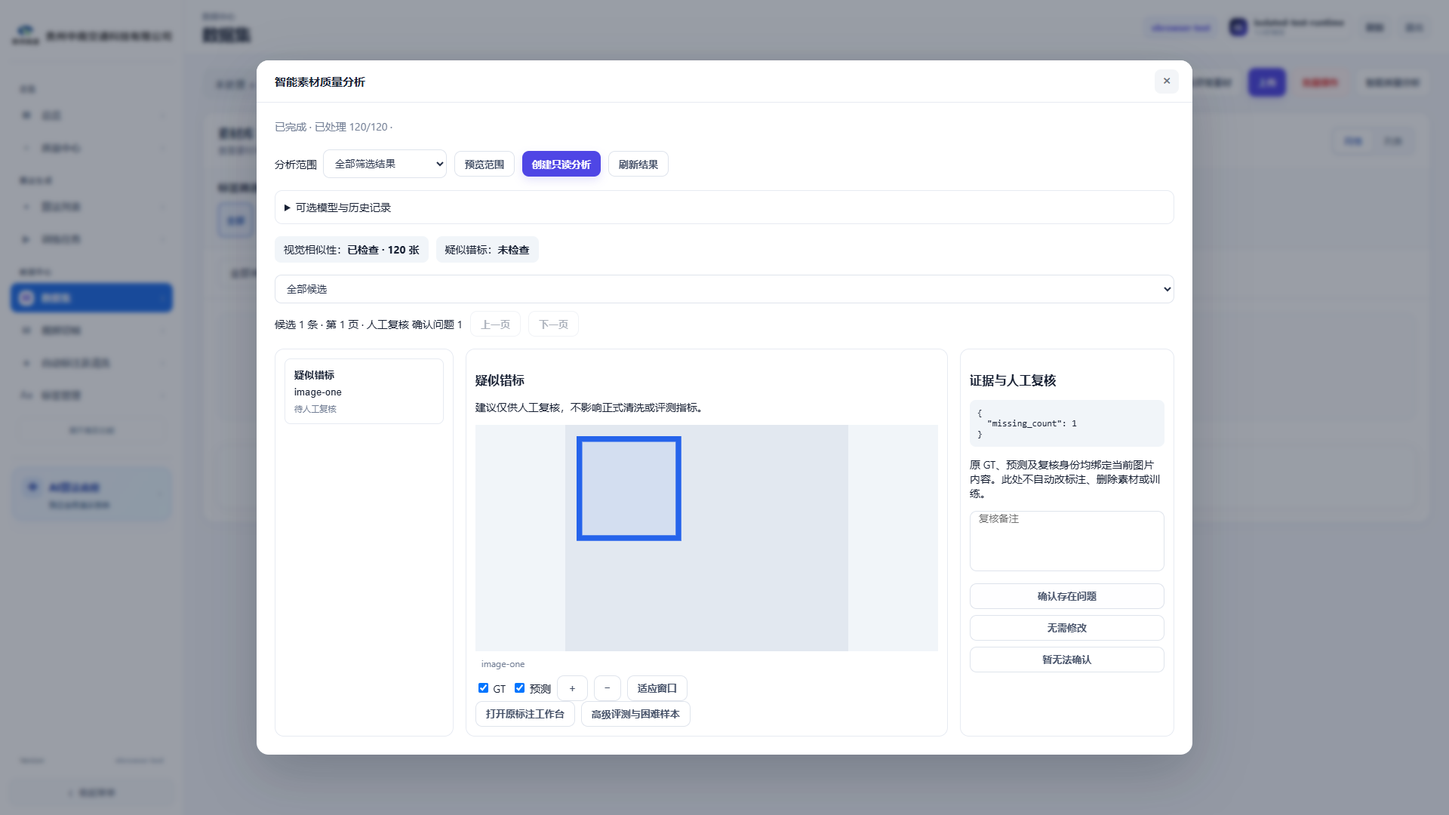
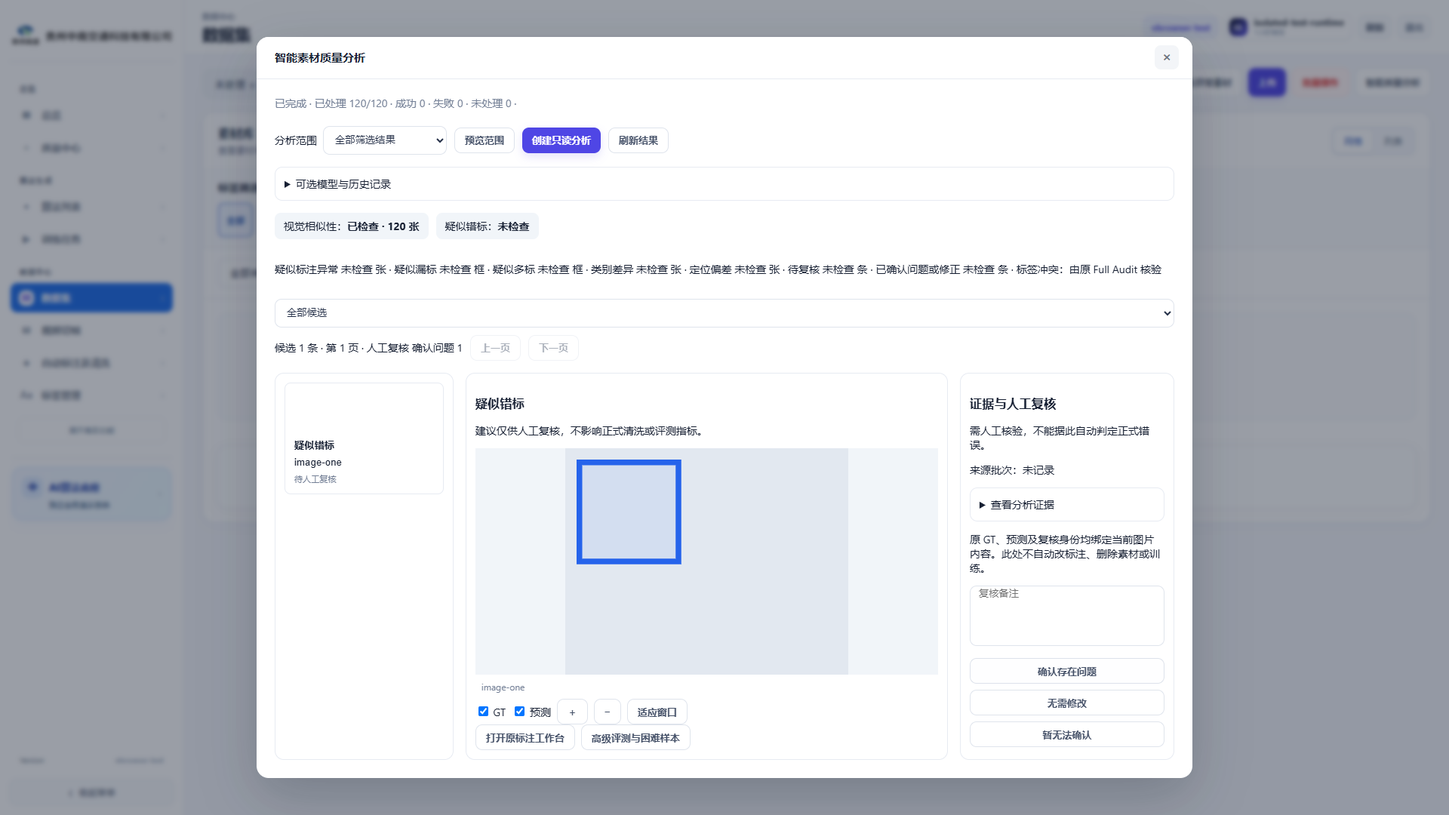
feat: expose native localization evidence and truthful label audit summaries

diff --git a/static/modules/smart-material-audit.js b/static/modules/smart-material-audit.js
@@ -18,6 +18,10 @@ export function auditCheckText(check={}) {
   if(check.status==='completed') return `已检查${check.checked==null?'':` · ${Number(check.checked)} 张`}`;
   return ({not_checked:'未检查',unknown:'未知',risk:'有风险',partial:'部分检查',failed:'失败'})[check.status]||'未检查';
 }
+export function annotationSummaryText(summary={}) {
+  const value=key=>summary[key]==null?'未检查':String(summary[key]);
+  return `疑似标注异常 ${value('suspected_images')} 张 · 疑似漏标 ${value('possible_missing_boxes')} 框 · 疑似多标 ${value('possible_spurious_boxes')} 框 · 类别差异 ${value('class_difference_images')} 张 · 定位偏差 ${value('location_difference_images')} 张 · 待复核 ${value('pending_candidates')} 条 · 已确认问题或修正 ${value('confirmed_candidates')} 条 · 标签冲突：由原 Full Audit 核验`;
+}
 
 // Presentation only: submission, durable identity and polling remain MaterialBatchRuntime62's.
 export function installSmartMaterialAudit({getState,api,modal,notify}={}) {
@@ -42,14 +46,15 @@ export function installSmartMaterialAudit({getState,api,modal,notify}={}) {
     v.task=task;
     const progress=task.smart_audit_progress||{};
     const phase=({smart_inputs:'只读核验输入',smart_features:'提取图像特征',smart_similarity:'计算视觉相似性',smart_mistakenness:'核验错标证据',smart_engine:'隔离引擎处理中'})[progress.stage||task.phase]||task.phase||'';
-    message(v,`${materialBatchTaskText(task)} · 已处理 ${Number(task.processed||0)}/${Number(task.total||0)} · ${phase}${progress.scanned==null?'':` · 特征已读取 ${progress.scanned}/${progress.total}（不是整项任务完成度）`}`);
+    const elapsed=task.smart_audit_summary?.elapsed_seconds;
+    message(v,`${materialBatchTaskText(task)} · 已处理 ${Number(task.processed||0)}/${Number(task.total||0)} · 成功 ${Number(task.succeeded||0)} · 失败 ${Number(task.failed||0)} · 未处理 ${Math.max(0,Number(task.total||0)-Number(task.processed||0))}${elapsed==null?'':` · 处理耗时 ${elapsed} 秒`} · ${phase}${progress.scanned==null?'':` · 特征已读取 ${progress.scanned}/${progress.total}（不是整项任务完成度）`}`);
     v.root.querySelector('[data-cancel]').hidden=!isMaterialBatchActive(task);
     v.root.querySelector('[data-retry]').hidden=!['FAILED','CANCELLED','PARTIAL_SUCCESS','BLOCKED_BY_ENVIRONMENT','BLOCKED_BY_HARDWARE'].includes(task.status);
     v.root.querySelector('[data-checks]').innerHTML=Object.entries(task.smart_audit_summary?.checks||{}).map(([key,check])=>`<span title="${escape(check.reason||'')}">${escape(checks[key]||key)}：<b>${escape(auditCheckText(check))}</b></span>`).join('');
     if(oldAttempt!==task.attempt) {resetResults(v);}
     if(!isMaterialBatchActive(task)&&(wasActive||oldAttempt!==task.attempt)&&task.result_ready) void findings(v);
   }
-  function resetResults(v) {v.offset=0;v.detailSequence++;v.listSequence++;v.item=null;for(const editor of v.editors||[])editor.destroy();v.editors=[];for(const name of ['issues','detail','review'])v.root.querySelector(`[data-${name}]`).replaceChildren();}
+  function resetResults(v) {v.offset=0;v.detailSequence++;v.listSequence++;v.item=null;for(const editor of v.editors||[])editor.destroy();v.editors=[];for(const name of ['issues','detail','review'])v.root.querySelector(`[data-${name}]`).replaceChildren();v.root.querySelector('[data-annotation-summary]')?.remove();if(v.source==='labels'){const box=document.querySelector('[data-smart-audit-label-summary]');if(box)box.textContent='当前分析结果尚未读取，不使用旧任务计数。';}}
   async function chooseTask(v,id) {
     resetResults(v);v.task=null;v.desiredTaskId=id;
     const task=await request(v,`/api/v62/projects/${encodeURIComponent(v.project)}/material-batches/${encodeURIComponent(id)}`);
@@ -73,9 +78,15 @@ export function installSmartMaterialAudit({getState,api,modal,notify}={}) {
       const page=await request(v,`${base(v.project)}/${encodeURIComponent(id)}/findings?limit=25&offset=${v.offset}&issue_type=${encodeURIComponent(v.filter)}`);
       if(!active(v)||v.task.task_id!==id||v.task.attempt!==attempt||page.generation!==attempt||token!==v.listSequence)return;
       v.total=page.total;
+      let summary=v.root.querySelector('[data-annotation-summary]');
+      if(!summary){summary=document.createElement('p');summary.dataset.annotationSummary='';v.root.querySelector('[data-checks]').after(summary);}
+      summary.textContent=annotationSummaryText(page.annotation_summary);
+      const labelSummary=document.querySelector('[data-smart-audit-label-summary]');
+      if(labelSummary&&v.source==='labels')labelSummary.textContent=`Task ${id} · ${annotationSummaryText(page.annotation_summary)}`;
       v.root.querySelector('[data-count]').textContent=`候选 ${page.total} 条 · 第 ${Math.floor(v.offset/25)+1} 页 · 人工复核 ${Object.entries(page.review_counts||{}).map(([k,n])=>`${({confirmed_issue:'确认问题',no_issue:'无需修改',corrected:'已修正',unknown:'待确认',stale:'已失效'})[k]||k} ${n}`).join(' / ')}`;
       v.root.querySelector('[data-issues]').innerHTML=page.items.map(item=>`<button class="sma-issue" data-issue="${escape(item.issue_id)}"><b>${escape(types[item.issue_type]||item.issue_type)}</b><span>${escape(item.image_id)}${item.related_image_id?` ↔ ${escape(item.related_image_id)}`:''}</span><small>${item.stale?'证据已变化，需复核':item.review_valid?'已人工复核':'待人工复核'}</small></button>`).join('')||'<p>当前筛选没有候选。未检查项仍保持未检查，不代表全库无问题。</p>';
       v.root.querySelectorAll('[data-issue]').forEach(b=>b.onclick=()=>void action(v,()=>detail(v,b.dataset.issue)));
+      v.root.querySelectorAll('[data-issue]').forEach(button=>{const item=page.items.find(row=>row.issue_id===button.dataset.issue),img=document.createElement('img');img.src=`/api/v61/projects/${encodeURIComponent(v.project)}/materials/${encodeURIComponent(item.image_id)}/content/thumbnail?edge=128`;img.alt=item.inputs?.[item.image_id]?.filename||item.image_id;img.loading='lazy';img.width=80;img.height=54;img.style.objectFit='contain';img.onerror=()=>{img.remove();const hint=document.createElement('small');hint.textContent='缩略图暂不可用，可查看原图';button.append(hint);};button.prepend(img);});
       v.root.querySelector('[data-prev]').disabled=v.offset===0;v.root.querySelector('[data-next]').disabled=v.offset+25>=page.total;
       if(page.items.length)await detail(v,page.items[0].issue_id);
     }catch(e){if(active(v)&&token===v.listSequence)message(v,e.message||e,true);}
@@ -111,6 +122,10 @@ export function installSmartMaterialAudit({getState,api,modal,notify}={}) {
       if(img.complete&&img.naturalWidth)void start();else img.onload=()=>void start();
     }
     v.root.querySelector('[data-review]').innerHTML=`<h3>证据与人工复核</h3><pre>${escape(JSON.stringify(item.evidence,null,2))}</pre><p>原 GT、预测及复核身份均绑定当前图片内容。此处不自动改标注、删除素材或训练。</p><textarea class="input" data-note maxlength="1000" placeholder="复核备注"></textarea><div class="sma-verdicts"><button class="btn" data-verdict="confirmed_issue">确认存在问题</button><button class="btn" data-verdict="no_issue">无需修改</button><button class="btn" data-verdict="unknown">暂无法确认</button></div>`;
+    const raw=v.root.querySelector('[data-review] pre'),evidence=item.evidence||{},reason=document.createElement('p');
+    reason.textContent=[evidence.possible_missing>0?`疑似漏标 ${evidence.possible_missing} 框`:'',evidence.possible_spurious>0?`疑似多标 ${evidence.possible_spurious} 框`:'',evidence.mistakenness>.5?'疑似类别差异':'',evidence.mistakenness_loc>.5?'疑似框位置偏差':'',Number.isFinite(evidence.distance)?`单位特征距离 ${evidence.distance.toFixed(4)}（越小越近，不是百分比）`:'',evidence.reason||''].filter(Boolean).join('；')||'需人工核验，不能据此自动判定正式错误。';raw.before(reason);
+    const source=document.createElement('p');source.textContent=`来源批次：${item.inputs?.[item.image_id]?.source_batch_id||'未记录'}`;raw.before(source);
+    const disclosure=document.createElement('details'),title=document.createElement('summary');title.textContent='查看分析证据';raw.replaceWith(disclosure);disclosure.append(title,raw);
     v.root.querySelectorAll('[data-verdict]').forEach(b=>b.onclick=()=>void action(v,async()=>{
       if(v.task.task_id!==taskId||v.task.attempt!==attempt||v.item!==item)throw new Error('分析结果已切换，请重新核验');
       await request(v,`${base(v.project)}/${encodeURIComponent(taskId)}/findings/${encodeURIComponent(id)}/review`,post({verdict:b.dataset.verdict,expected_generation:attempt,expected_review_token:item.review_token,note:v.root.querySelector('[data-note]').value}));
@@ -157,8 +172,8 @@ export function installSmartMaterialAudit({getState,api,modal,notify}={}) {
   }
   const runtime={open,onTask(task){if(view)taskChanged(view,task);},beforeModalClose(layer){if(view&&(layer===view.layer||layer.contains(view.root)))dispose(view);if(reviewIntent&&layer.querySelector('.ann420-stable'))reviewIntent=null;},async onAnnotationSaved(project,imageId,workbench){
     const intent=reviewIntent;if(!intent||intent.project!==project||intent.imageId!==imageId||intent.workbench!==workbench||pid()!==project)return;
-    try {const recorded=await withRequestDeadline(async signal=>{const item=await api(`${base(project)}/${encodeURIComponent(intent.taskId)}/findings/${encodeURIComponent(intent.issueId)}`,{signal});if(reviewIntent!==intent||pid()!==project)return false;if(item.generation!==intent.attempt)throw new Error('分析代际已变化');await api(`${base(project)}/${encodeURIComponent(intent.taskId)}/findings/${encodeURIComponent(intent.issueId)}/review`,{...post({verdict:'corrected',expected_generation:intent.attempt,expected_review_token:item.review_token}),signal});return true;},{timeoutMs:30000,label:'人工复核回执'});if(recorded&&pid()===project)tell('标注已保存，分析复核回执已更新');}
-    catch(_){tell('标注已保存；分析复核回执未更新，可在智能分析中重新核验');}
+    try {const recorded=await withRequestDeadline(async signal=>{const item=await api(`${base(project)}/${encodeURIComponent(intent.taskId)}/findings/${encodeURIComponent(intent.issueId)}`,{signal});if(reviewIntent!==intent||pid()!==project)return false;if(item.generation!==intent.attempt)throw new Error('分析代际已变化');await api(`${base(project)}/${encodeURIComponent(intent.taskId)}/findings/${encodeURIComponent(intent.issueId)}/review`,{...post({verdict:'corrected',expected_generation:intent.attempt,expected_review_token:item.review_token}),signal});return true;},{timeoutMs:30000,label:'人工复核回执'});if(recorded&&pid()===project){tell('标注已保存，分析复核回执已更新');if(view?.task?.task_id===intent.taskId&&view.task.attempt===intent.attempt)void findings(view);}}
+    catch(_){if(pid()===project)tell('标注已保存；分析复核回执未更新，可在智能分析中重新核验');}
   }};
   window.SmartMaterialAuditRuntime=runtime;
   window.openSmartMaterialAudit=options=>open(options).catch(error=>tell(error.message||error));

diff --git a/static/app.js b/static/app.js
@@ -5262,7 +5262,7 @@ const LABEL_SCHEMA_CACHE_TTL_MS=2*60*1000;
 
   window.renderLabelManagement414=async function({force=false}={}){
     const view=document.getElementById('view');if(!view)return;
-    view.innerHTML=`<section class="label414-shell"><div class="label414-head"><div><h2>标签管理</h2><p>标签英文编码用于训练、导入导出和模型结果；别名用于记住外部数据集或 AI 曾确认过的标签名称。</p></div><div class="row"><button class="btn" onclick="renderLabelManagement414({force:true})">刷新</button><button class="btn" onclick="openLabelBulkUnify414()">批量统一标签</button><button class="btn primary" onclick="openLabel414()">＋ 新建标签</button></div></div><div id="label414RemapBanner"></div><section class="panel"><div class="label414-table" id="label414Table"></div></section><section class="panel label-integrity414"><div class="panel-head"><div><div class="panel-title">标签完整性</div><div class="subline">从 AnnotationRepository Ground Truth 全量审计，再与当前治理和 MaterialRepository 投影对账。</div></div><button class="btn" onclick="openSmartMaterialAudit({source: &quot;labels&quot;})">智能质量建议与人工复核</button><button id="labelIntegrityAuditButton414" class="btn" onclick="startLabelIntegrityAudit414()">运行 Full Audit</button></div><div class="panel-body" id="labelIntegrity414Body"><div class="empty compact">尚未运行完整性审计。审计在后台执行，不会修改任何标注。</div></div></section></section>`;
+    view.innerHTML=`<section class="label414-shell"><div class="label414-head"><div><h2>标签管理</h2><p>标签英文编码用于训练、导入导出和模型结果；别名用于记住外部数据集或 AI 曾确认过的标签名称。</p></div><div class="row"><button class="btn" onclick="renderLabelManagement414({force:true})">刷新</button><button class="btn" onclick="openLabelBulkUnify414()">批量统一标签</button><button class="btn primary" onclick="openLabel414()">＋ 新建标签</button></div></div><div id="label414RemapBanner"></div><section class="panel"><div class="label414-table" id="label414Table"></div></section><section class="panel label-integrity414"><div class="panel-head"><div><div class="panel-title">标签完整性</div><div class="subline">从 AnnotationRepository Ground Truth 全量审计，再与当前治理和 MaterialRepository 投影对账。</div></div><button class="btn" onclick="openSmartMaterialAudit({source: &quot;labels&quot;})">智能质量建议与人工复核</button><button id="labelIntegrityAuditButton414" class="btn" onclick="startLabelIntegrityAudit414()">运行 Full Audit</button></div><div class="panel-body" data-smart-audit-label-summary>智能质量建议尚未读取；点击“智能质量建议与人工复核”查看真实结果，未检查项不默认正常。</div><div class="panel-body" id="labelIntegrity414Body"><div class="empty compact">尚未运行完整性审计。审计在后台执行，不会修改任何标注。</div></div></section></section>`;
     drawLabel414();
     void resumeLabelUnify414();
     if(state.labelIntegrityAuditResult414)renderLabelIntegrityIssues414(state.labelIntegrityAuditResult414);else void resumeLabelIntegrity414();

diff --git a/tools/verify_smart_audit_scope_limit.py b/tools/verify_smart_audit_scope_limit.py
@@ -1,0 +1,61 @@
+"""Isolated 10k/100k metadata admission boundary; NOT an engine scale benchmark."""
+import argparse
+from contextlib import closing
+import hashlib
+import json
+from pathlib import Path
+import sys
+import tempfile
+import time
+
+import psutil
+
+sys.path.insert(0,str(Path(__file__).resolve().parents[1]))
+from platform_core.material_repository import MaterialRepository
+from platform_core.material_batches import BatchRequestError
+from platform_core.smart_material_audit.service import estimate_audit
+
+
+def digest(path):
+    with path.open('rb') as stream:return hashlib.file_digest(stream,'sha256').hexdigest()
+
+
+def main():
+    parser=argparse.ArgumentParser();parser.add_argument('--out',required=True);args=parser.parse_args()
+    results=[]
+    with tempfile.TemporaryDirectory(prefix='smart-scope-boundary-owned-') as temporary:
+        root=Path(temporary);project=root/'projects/p';owner=MaterialRepository(project)
+        binary=root/'optional/Scripts/python.exe';binary.parent.mkdir(parents=True);binary.write_bytes(b'not executed')
+        (binary.parent.parent/'pyvenv.cfg').write_text('include-system-site-packages = false\n')
+        (root/'smart_material_audit.json').write_text(json.dumps(dict(enabled=True,python=str(binary),max_images=2000)))
+        inserted=0
+        for count in [10000,100000]:
+            for start in range(inserted,count,1000):
+                owner.upsert_many(dict(id=f'image-{index:06}',filename=f'{index}.jpg',content_sha256='a'*64)
+                    for index in range(start,min(count,start+1000)))
+            inserted=count
+            database=project/'materials.sqlite3';before=digest(database);calls=[]
+            connect=MaterialRepository._connect
+            def traced(self):
+                connection=connect(self);connection.set_trace_callback(calls.append);return connection
+            MaterialRepository._connect=traced
+            rss=psutil.Process().memory_info().rss;started=time.perf_counter()
+            try:
+                try:estimate_audit(root,'p',dict(scope='FILTERED',filters={}))
+                except BatchRequestError as error:assert error.code=='SMART_AUDIT_SCOPE_LIMIT'
+                else:raise AssertionError('unverified large engine scope was admitted')
+            finally:MaterialRepository._connect=connect
+            elapsed=time.perf_counter()-started
+            assert not any('SELECT m.id FROM materials' in sql for sql in calls)
+            assert before==digest(database)
+            with closing(owner._connect()) as connection:assert connection.execute('SELECT COUNT(*) FROM materials').fetchone()[0]==count
+            assert not (root/'tasks.sqlite3').exists() and not (root/'artifacts').exists()
+            results.append(dict(material_metadata_count=count,scope_rejected_before_id_loading=True,
+                original_database_unchanged=True,elapsed_seconds=round(elapsed,5),
+                rss_end_minus_start_bytes=psutil.Process().memory_info().rss-rss,engine_started=False))
+    Path(args.out).write_text(json.dumps(dict(scope='metadata-only admission safety, not actual image/engine throughput',
+        cases=results,owned_temporary_root_cleaned=True),indent=2),encoding='utf-8')
+    print(json.dumps(results),flush=True)
+
+
+if __name__=='__main__':main()

diff --git a/tools/verify_fiftyone_poc.py b/tools/verify_fiftyone_poc.py
@@ -14,6 +14,7 @@ def main():
     import argparse
     parser = argparse.ArgumentParser()
     parser.add_argument("--with-prediction-fixture", action="store_true")
+    parser.add_argument("--with-location-fixture", action="store_true")
     parser.add_argument("--identical-fixture", action="store_true")
     args = parser.parse_args()
     from PIL import Image, ImageDraw
@@ -48,6 +49,14 @@ def main():
                     annotation_state="confirmed_empty", annotation_digest="b"*64,
                     prediction_evidence=dict(evaluation_id="c"*64, model_sha256="d"*64,
                         benchmark_scope_id="e"*64, image_content_sha256=row["content_sha256"],image_width=width,image_height=height))
+        if args.with_location_fixture:
+            for row in records:
+                with Image.open(row['path']) as source:width,height=source.size
+                row.update(gt_boxes=[dict(label='orange',x1=10,y1=8,x2=50,y2=55)],
+                    pred_boxes=[dict(label='orange',x1=20,y1=8,x2=60,y2=55,confidence=.99)],
+                    annotation_state='annotated',annotation_digest='b'*64,
+                    prediction_evidence=dict(evaluation_id='c'*64,model_sha256='d'*64,benchmark_scope_id='e'*64,
+                        image_content_sha256=row['content_sha256'],image_width=width,image_height=height))
         before = {row["image_id"]: Path(row["path"]).read_bytes() for row in records}
         result = analyze(dict(project_id="isolated", task_id="poc", feature="hog-color-v1",
             images=records, threshold=.4, frozen_split_evidence="a" * 64), root / "engine")
@@ -55,7 +64,11 @@ def main():
         assert result["scanned"] == len(names) and result["failed"] == 0
         assert any(set(pair["image_ids"]) == {"image-0", "image-1"} for pair in result["similar_pairs"])
         assert result["checks"]["leakage"]["status"] == "completed"
-        if args.with_prediction_fixture:
+        if args.with_location_fixture:
+            assert len(result['annotation_candidates'])==len(names)
+            assert all(row['mistakenness_loc']>.5 and row['mistakenness']<.5 for row in result['annotation_candidates'])
+            assert all(row['native_box_signals'][0]['gt_box_index']==0 for row in result['annotation_candidates'])
+        elif args.with_prediction_fixture:
             assert result["checks"]["mistakenness"]["status"] == "completed"
             assert len(result["annotation_candidates"]) == len(names)
             assert all(row["possible_missing"] == 1 for row in result["annotation_candidates"])

diff --git a/platform_core/smart_material_audit/results.py b/platform_core/smart_material_audit/results.py
@@ -140,8 +140,24 @@ def findings_page(path, project, *, offset=0, limit=25, issue_type="", issue_id=
                 item['inputs']={key:{k:v for k,v in facts.items() if k not in {'gt_boxes','pred_boxes','prediction_evidence'}}
                     for key,facts in item['inputs'].items()}
         review_counts['pending']=sum(counts.values())-sum(review_counts[key] for key in ('confirmed_issue','no_issue','corrected'))
+        checks=json.loads(db.execute("SELECT value_json FROM metadata WHERE key='checks'").fetchone()[0])
+        annotation=checks.get('mistakenness',{})
+        checked=annotation.get('status') in {'completed','partial'}
+        metrics=db.execute("""SELECT COALESCE(SUM(json_extract(evidence_json,'$.possible_missing')),0),
+            COALESCE(SUM(json_extract(evidence_json,'$.possible_spurious')),0),
+            COALESCE(SUM(CASE WHEN json_extract(evidence_json,'$.mistakenness')>0.5 THEN 1 ELSE 0 END),0),
+            COALESCE(SUM(CASE WHEN json_extract(evidence_json,'$.mistakenness_loc')>0.5 THEN 1 ELSE 0 END),0)
+            FROM findings WHERE issue_type='suspected_annotation'""").fetchone()
+        annotation_summary={'suspected_images':counts.get('suspected_annotation',0) if checked else None,
+            'possible_missing_boxes':metrics[0] if checked else None,'possible_spurious_boxes':metrics[1] if checked else None,
+            'class_difference_images':metrics[2] if checked else None,
+            'location_difference_images':metrics[3] if checked and annotation.get('location_evidence') else None,
+            'label_conflicts':None,'label_conflict_owner':'original_full_audit',
+            'pending_candidates':review_counts['pending'],
+            'confirmed_candidates':review_counts['confirmed_issue']+review_counts['corrected'],
+            'annotation_not_checked_images':max(0,db.execute('SELECT COUNT(*) FROM inputs').fetchone()[0]-int(annotation.get('checked',0)))}
         return {"items":items,"total":total,"offset":offset,"limit":limit,'review_counts':review_counts,'review_counts_by_type':by_type,
-            "counts":counts,"checks":json.loads(db.execute("SELECT value_json FROM metadata WHERE key='checks'").fetchone()[0]),
+            "counts":counts,"checks":checks,'annotation_summary':annotation_summary,
             "generation":json.loads(db.execute("SELECT value_json FROM metadata WHERE key='generation'").fetchone()[0]),
             "read_only_sources":True}
 

diff --git a/platform_core/smart_material_audit/engine.py b/platform_core/smart_material_audit/engine.py
@@ -107,14 +107,28 @@ def _mistakenness(dataset, rows, ids, brain, fo):
         # Brain uses -1 when no matched GT exists; this is unavailable, not a score.
         if score is not None and score < 0:
             score = None
-        if missing or spurious or score is not None and score > .5:
+        box_signals=[];locations=[]
+        # Project Brain's own matched-box fields; never rematch IoU or recompute formal metrics.
+        for index,detection in enumerate(sample['formal_gt_copy'].detections):
+            location=getattr(detection,'mistakenness_loc',None)
+            if location is not None and math.isfinite(float(location)) and location>=0:
+                locations.append(float(location))
+            classification=getattr(detection,'mistakenness',None)
+            if (location is not None and location>.5 or classification is not None and classification>.5
+                    or getattr(detection,'possible_spurious',False)):
+                box_signals.append({'gt_box_index':index,'mistakenness':classification,'mistakenness_loc':location,
+                    'possible_spurious':bool(getattr(detection,'possible_spurious',False))})
+        location=max(locations) if locations else None
+        if missing or spurious or score is not None and score > .5 or location is not None and location>.5:
             candidates.append({"image_id": row["image_id"], "issue_type": "suspected_annotation",
                 "possible_missing": missing, "possible_spurious": spurious, "mistakenness": score,
+                'mistakenness_loc':location,'native_box_signals':box_signals[:120],
+                'native_box_signals_truncated':len(box_signals)>120,
                 "annotation_digest": row["annotation_digest"], "prediction_evidence": row["prediction_evidence"],
                 "reason": "模型与GT存在差异，仅为疑似问题，需人工复核；不改变正式评测统计",
                 "requires_confirmation": True})
     return {"status": "completed" if len(eligible) == len(rows) else "partial",
-            "checked": len(eligible), "not_checked": len(rows)-len(eligible)}, candidates
+            "checked": len(eligible), "not_checked": len(rows)-len(eligible),'location_evidence':True}, candidates
 
 
 def _configure(root, database_name):

diff --git a/platform_core/smart_material_audit/worker.py b/platform_core/smart_material_audit/worker.py
@@ -76,6 +76,7 @@ def _materialize_input(manager,image,cached,cache_bytes):
 
 def run_audit(context, data_dir):
     from ..material_batches import BatchSelection
+    started=time.monotonic()
     config = configuration(data_dir)
     task_id = context.task.task_id
     project = project_path(data_dir, context.task.project_id)
@@ -138,6 +139,7 @@ def run_audit(context, data_dir):
                                 cached_inputs[str(local.path)]=local
                         record = gt.get(image_id)
                         row = {"image_id":image_id,"filename":image.get('filename',image_id),"path":str(local.path),
+                            "source_batch_id":image.get('upload_batch_id') or image.get('import_batch_id') or image.get('source_task_id'),
                             "content_sha256":local.content_sha256,"annotation_version":record.get('version') if record else None,
                             "annotation_digest":annotations.record_digest(record) if record is not None else None,
                             "annotation_state":record.get('annotation_state') if record else 'unknown',
@@ -239,6 +241,7 @@ def run_audit(context, data_dir):
         summary=manifest.summary()
         summary.update(engine='fiftyone',feature=FEATURE,checks=outcome['checks'],input_evidence_reason=evidence['reason'],
             finding_count=len(outcome.get('similar_pairs',[]))+len(outcome.get('annotation_candidates',[]))+len(failures),
+            elapsed_seconds=round(time.monotonic()-started,3),
             execution_generation=generation,temporary_data_cleaned=True,extra_permanent_image_copies=0,
             shared_cache_references=len(locked),peak_process_tree_rss_bytes=peak_rss,peak_temporary_logical_bytes=peak_disk)
         context.save_checkpoint(summary)

diff --git a/tests/unit/test_smart_material_audit_results.py b/tests/unit/test_smart_material_audit_results.py
@@ -1,9 +1,30 @@
 import json
+import pytest
 
 import pytest
 
 from platform_core.annotation_repository import AnnotationRepository
 from platform_core.material_repository import MaterialRepository
+
+@pytest.mark.parametrize('checked',[True,False])
+def test_native_annotation_summary_distinguishes_box_image_and_unknown_counts(tmp_path,checked):
+    from platform_core.smart_material_audit.results import build_results,findings_page
+    project=tmp_path/'p';materials=MaterialRepository(project);AnnotationRepository(project)
+    inputs=[]
+    for name in ['a','b']:
+        materials.upsert(dict(id=name,filename=name+'.png',content_sha256='a'*64))
+        inputs.append(dict(image_id=name,content_sha256='a'*64))
+    path=tmp_path/'derived.sqlite3'
+    check={'status':'completed','checked':2,'location_evidence':True} if checked else {'status':'not_checked','checked':0}
+    build_results(path,inputs,{'annotation_candidates':[{'image_id':'a','possible_missing':2,'possible_spurious':0,'mistakenness':.1,'mistakenness_loc':.8},
+        {'image_id':'b','possible_missing':1,'possible_spurious':1,'mistakenness':.9,'mistakenness_loc':.1}],'checks':{'mistakenness':check}},generation=1)
+    summary=findings_page(path,project)['annotation_summary']
+    assert summary['suspected_images']==(2 if checked else None)
+    assert summary['possible_missing_boxes']==(3 if checked else None)
+    assert summary['location_difference_images']==(1 if checked else None)
+    assert summary['class_difference_images']==(1 if checked else None)
+    assert summary['label_conflicts'] is None
+    assert summary['pending_candidates']==2 and summary['confirmed_candidates']==0
 from platform_core.material_batches import BatchRequestError
 
 

diff --git a/docs/FIFTYONE_SMART_MATERIAL_AUDIT_2026_10_26.md b/docs/FIFTYONE_SMART_MATERIAL_AUDIT_2026_10_26.md
@@ -2,6 +2,18 @@
 
 本文件是本专项唯一需求、设计、进度和接续依据。用户附件681f3943与“最高优先级：现有业务兼容性与零破坏原则”共同构成需求基线；后者优先。2026-10-26真实fetch成功，远端/本地均c88b6151797bf7a122b891f4e336697dd041802a，VERSION42.24.389，初始工作区干净。其他工作树、5944e1a5、原标注WIP和两份训练模板测试保持原样。
 
+## 附件逐项补验：原生定位与标签汇总（2026-10-26）
+
+对照原附件，补齐原生定位差异和标签区派生计数。真实 FO 控制夹具中同类框 IoU=0.6，原仅取 image mistakenness 时漏掉3张定位候选（RED）。现在只读取 Brain 写入 GT 副本的 mistakenness_loc，不另算 IoU/TP/FP/FN；3/3候选 GREEN，原生分类提示0.005、定位提示0.797，不把提示值当准确率。最多返回120条原生框信号且明确 truncated；原 GT、模型预测、评测指标均不变。[真实定位回执](evidence/fiftyone-native-location-2026-10-26.json)。
+
+标签建议入口主动读取后，在原标签完整性区域和分析面板显示：疑似异常图片、疑似漏/多标框、类别/定位差异图片、待复核候选、人工确认或修正候选。来自派生结果 SQL 聚合及原复核回执；没有模型或历史缺字段返回 null/“未检查”。标签冲突继续由原 Full Audit 判断，既有 Full Audit 计数在原区域保留，不复制冲突判定系统。标注保存成功后的派生刷新异步执行，失败不改变原 GT 保存结果；项目变化不向新项目弹出旧保存提示。缩略图仅按当前页懒加载；来源批次只投影既有元数据，缺失显示“未记录”，不扫描全部历史上传回执或补写正式记录。
+
+本增量最小验证：结果/复核4项 Python、相关摘要及上传入口11项 Node、面板及标签区→原GT保存2项真实Chrome通过。上传入口单测确认仅传已成功入库且已选的ID，未调用清洗/ready决策、未改变原上传回执。独立只读审查本增量无阻塞发现。未重复全仓测试，未重复之前关闭组。
+
+**1万/10万规模边界**：[实际隔离元数据探测](evidence/fiftyone-scope-boundary-2026-10-26.json)分别使用原 Repository 写入10000/100000条真实SQLite记录，确认估算在加载ID之前以SMART_AUDIT_SCOPE_LIMIT拒绝，原库摘要不变、无任务/引擎/图片副本。只读准入耗时0.02781/0.01627秒；结束RSS相对开始+16384/-503808字节，不是峰值，也不是FiftyOne全量处理性能。当前sklearn相似比较最坏工作量随N²增长、密集重复对也会N²增长，因此不会把前2000条静默当全库结果。超过2000的完整图像/引擎扫描 **未实现、NOT VERIFIED**；需要有界全局索引/结果量方案后另验，不能通过盲目提高上限宣称已支持10万。此边界不影响原素材库或原清洗规模。
+
+基础集成69e975db的CI仍不代表此补齐代码；下一提交按实际新SHA验收，VERSION保持本轮390。旧9162运行仅对本轮已被取代且未完成的运行安全取消，保留失败记录；其他会话/提交运行未操作。
+
 ## 首次推送与缓存守卫修正（2026-10-26）
 
 代码 `9162a21cb1c44d7a53d227a4e967eb3b5d4d3fa2` 已正常推送，未强推。首推准确 SHA 已触发49项 Actions，早期两个 frontend check 失败，不能记为最终绿色。核验发现原版本守卫仍固定 app/main436、material-batches422410、上传 bootstrap422534；本次必要缓存已更新至437/422411/422535。仅同步既有精确缓存断言及一个原workflow grep，不删测试/不弱化断言/不扩大工作流范围。定向旧守卫 RED 后更新，24/24 GREEN，VERSION390保持不二次递增。最终以后续修正 SHA 的独立 CI 为准。
